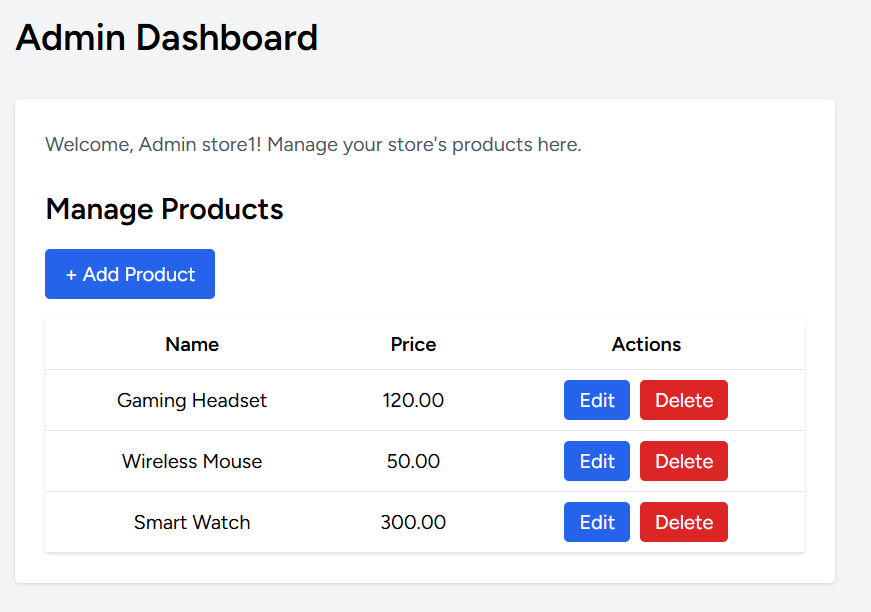
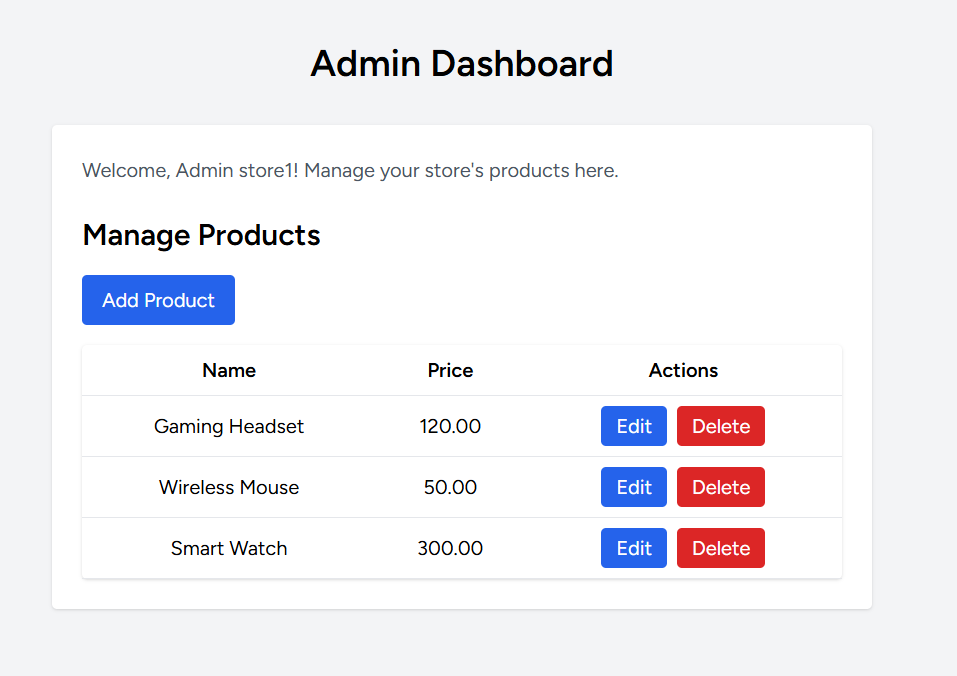
Add Super Admin Dashboard

diff --git a/resources/views/livewire/admin/dashboard.blade.php b/resources/views/livewire/admin/dashboard.blade.php
@@ -1,6 +1,6 @@
 
 <div class="max-w-2xl mx-auto py-10 px-2 sm:px-4">
-    <h1 class="text-3xl font-bold mb-8">Admin Dashboard</h1>
+<h1 class="text-3xl font-bold mb-8 text-center">Admin Dashboard</h1>
     <div class="bg-white rounded shadow p-6">
         <p class="mb-6 text-gray-600">
             Welcome, {{ auth()->user()->name }}! Manage your store's products here.

diff --git a/resources/views/livewire/admin/products-manage.blade.php b/resources/views/livewire/admin/products-manage.blade.php
@@ -8,7 +8,7 @@
     @endif
 
     <button wire:click="showAddForm" class="mb-4 bg-blue-600 text-white px-4 py-2 rounded hover:bg-blue-700">
-        + Add Product
+        Add Product
     </button>
 
     @if ($showForm)
